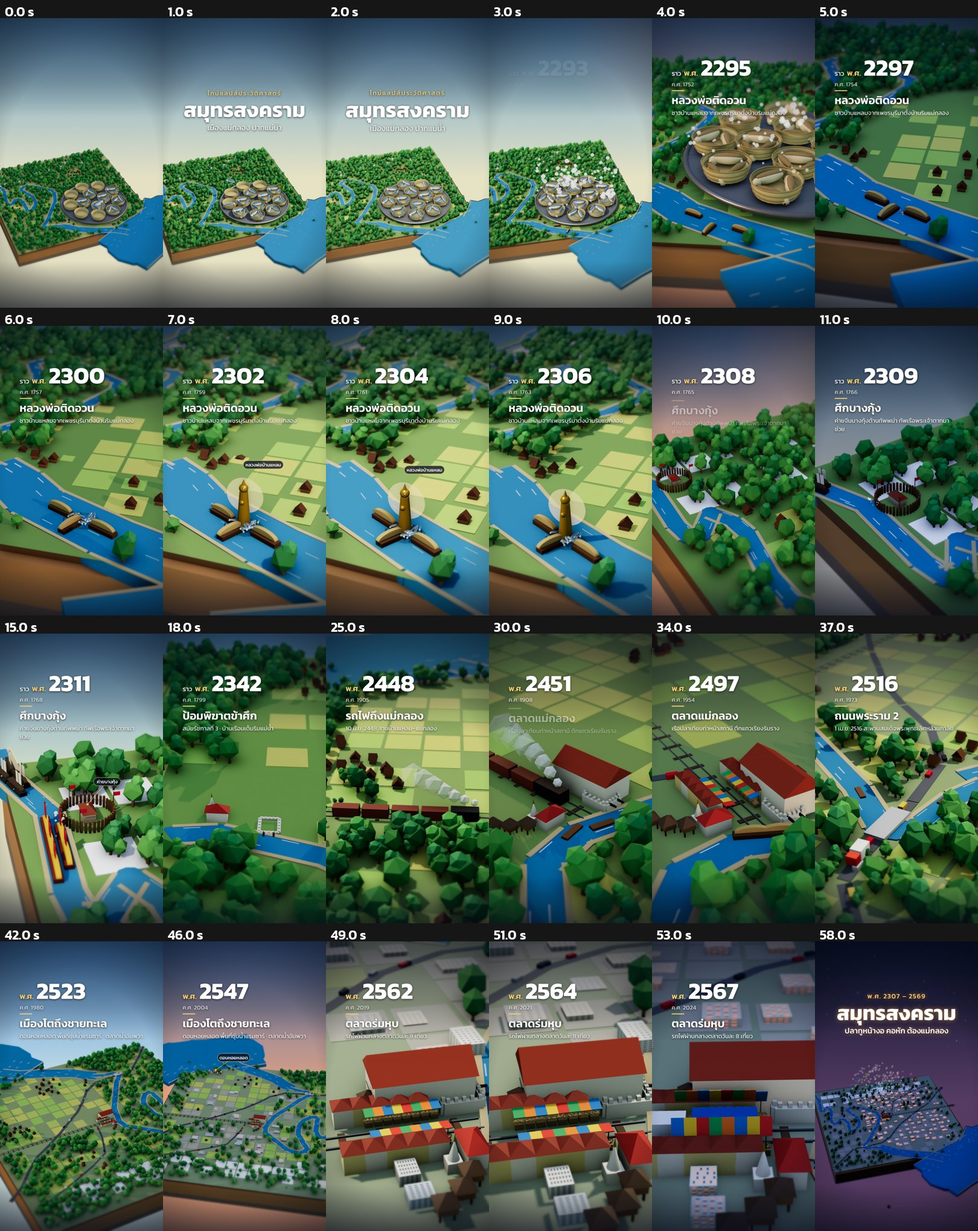
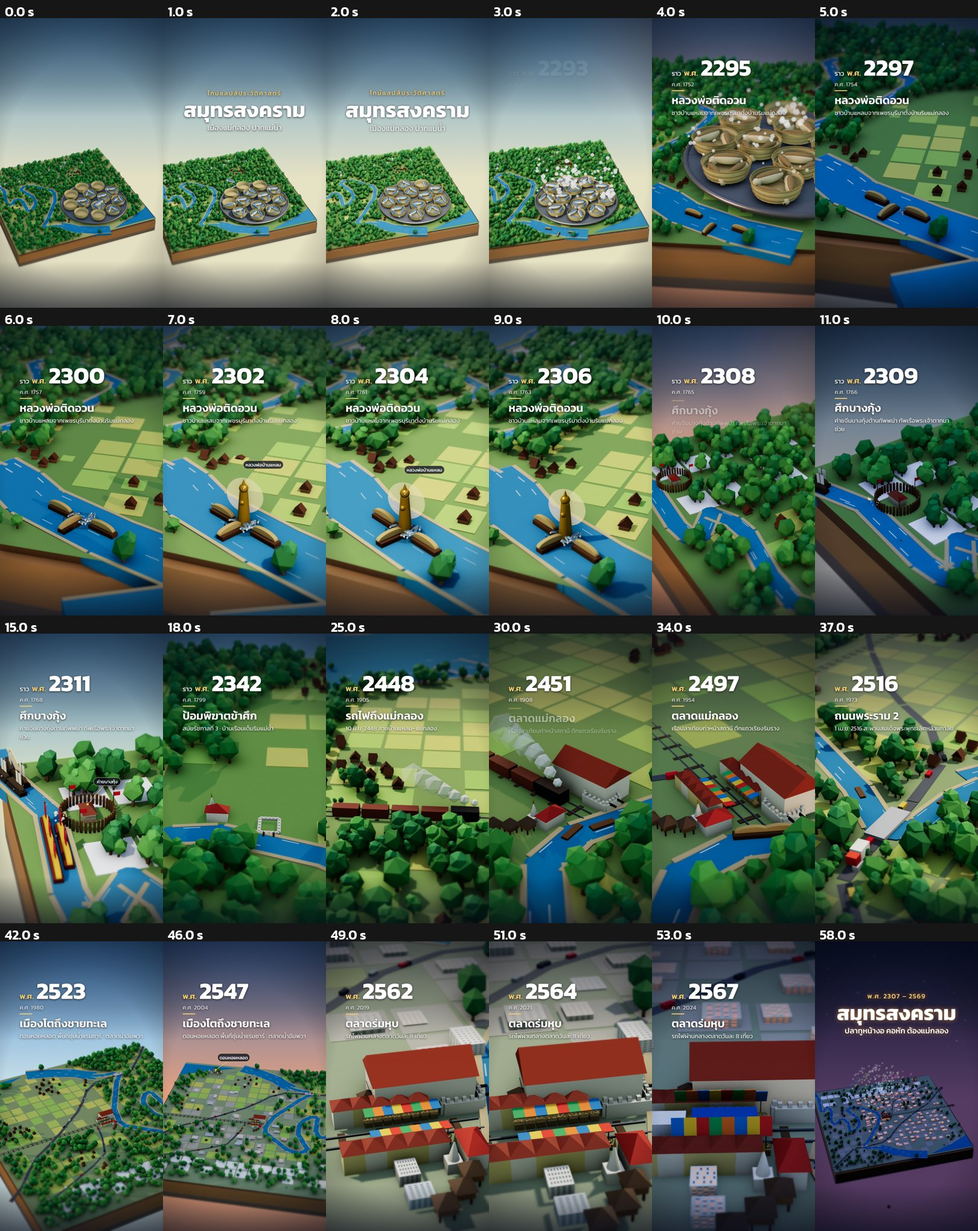
Samut Songkhram v1b: the gulf cut at the tile's edges, no water hanging off the tile

diff --git a/src/cities/samutsongkhram/places.ts b/src/cities/samutsongkhram/places.ts
@@ -12,7 +12,8 @@ export const TILE = {x0: -40, x1: 36, z0: -30, z1: 44};
 // ---- the Mae Klong (OSM way 1460457504): in from the north-west past Bang Kung, the loop west of town, down the town's
 // west side, out past the Rama II bridge to the mouth
 export const MAEKLONG: P[] = [
-  [-39.9, -33.9], [-39.6, -28.7], [-37.3, -22.2], [-37.9, -13.1], [-37.6, -10.7], [-36.3, -10.4], [-33.7, -13.4],
+  // enters at the tile's north edge (drawn 1.2 E so the 2.2-wide channel stays on the tile)
+  [-38.5, -30.0], [-38.4, -28.7], [-37.3, -22.2], [-37.9, -13.1], [-37.6, -10.7], [-36.3, -10.4], [-33.7, -13.4],
   [-32.4, -10.8], [-32.2, -8.4], [-33.6, -1.8], [-33.7, 2.2], [-32.6, 4.0], [-31.0, 3.8], [-28.8, 1.1], [-27.1, 1.1],
   [-26.0, 2.3], [-25.2, 4.5], [-25.2, 12.3], [-24.4, 13.2], [-22.6, 12.9], [-20.2, 10.4], [-19.1, 8.3], [-18.7, 6.0],
   [-18.9, 1.3], [-22.8, -6.5], [-22.1, -8.1], [-20.5, -9.3], [-18.0, -9.1], [-15.6, -8.1], [-6.7, 0.1], [-6.2, 3.3],
@@ -20,12 +21,14 @@ export const MAEKLONG: P[] = [
 ];
 export const MAEKLONG_W = 2.2;
 /** the estuary: from below the Rama II bridge, widening out to the gulf */
-export const ESTUARY: P[] = [[-13.0, 32.0], [-9.4, 34.4], [-6.0, 37.6], [2.0, 41.6], [12.6, 45.8], [18, 50]];
+/** ends at the tile's south edge, beside the gulf's corner (the engine draws a path river as boxes, unclipped) */
+export const ESTUARY: P[] = [[-13.0, 32.0], [-9.4, 34.4], [-6.0, 37.6], [2.0, 41.6], [10.0, 44.0]];
 export const ESTUARY_W = 6.0;
 /** the coast (OSM coastline, way 746400327), Don Hoi Lot's flats on it; the gulf is one wide path south-east of it */
 export const COAST: P[] = [[0, 50.6], [10, 45.4], [21.0, 40.6], [25.3, 39.4], [30.1, 36.8], [34.5, 34.9], [39.1, 29.4], [44, 22]];
-export const SEA_W = 30;
-export const SEA_PATH: P[] = COAST.map(([x, z]) => [x + 7.5, z + 13] as P);
+/** the Gulf of Thailand on the tile: the corner south-east of the coast, cut at the tile's edges (drawn in Landmarks.tsx
+ *  as one flat shape, so no water hangs off the tile) */
+export const SEA: P[] = [[12.6, 44], [21.0, 40.6], [25.3, 39.4], [30.1, 36.8], [34.5, 34.9], [36, 33.1], [36, 44]];
 
 // ---- the town (OSM pins)
 export const PILLAR: P = [0, 0]; // ศาลหลักเมือง (origin; built 2517)

diff --git a/src/cities/samutsongkhram/Landmarks.tsx b/src/cities/samutsongkhram/Landmarks.tsx
@@ -8,7 +8,7 @@ import {
   STEAM0, THAI, TRAY_R, TRUCKS, awningOpen, basketAt, buddhaK, burmeseAt, catchBoatAt, clamp01, diggerAt, diggersK, fortK,
   gunK, marketBoatAt, netK, packAt, riverHouseK, shopK, smooth, stallK, thaiAt, trayK, truckAt, watK,
 } from './actors';
-import {BANG_KUNG, FORT, NET_AT, RAIL_Z, TRAY_AT, TRAY_S, WAT_PHET} from './places';
+import {BANG_KUNG, FORT, NET_AT, RAIL_Z, SEA, TRAY_AT, TRAY_S, WAT_PHET} from './places';
 
 const hash = (i: number) => {
   const s = Math.sin(i * 127.1 + 311.7) * 43758.5453;
@@ -431,8 +431,27 @@ const Diggers: React.FC<{t: number; Y: number}> = ({t, Y}) => {
   );
 };
 
+// ------------------------------------------------------------------ the gulf: one flat shape cut at the tile's edges
+const seaShape = (() => {
+  const sh = new THREE.Shape();
+  // the shape is drawn in x / -z (rotated flat below), so z is negated
+  SEA.forEach(([x, z], i) => (i === 0 ? sh.moveTo(x, -z) : sh.lineTo(x, -z)));
+  sh.closePath();
+  return sh;
+})();
+const Gulf: React.FC = () => (
+  <group>
+    {/* extruded upward from y = -1.3 to the rivers' surface at 0.1 */}
+    <mesh position={[0, -1.3, 0]} rotation-x={-Math.PI / 2} receiveShadow>
+      <extrudeGeometry args={[seaShape, {depth: 1.4, bevelEnabled: false}]} />
+      <meshStandardMaterial color="#3f8fc0" roughness={0.12} metalness={0.25} />
+    </mesh>
+  </group>
+);
+
 export const SamutSongkhramLandmarks: React.FC<LandmarkProps> = ({Y, t}) => (
   <group>
+    <Gulf />
     <Tray t={t} />
     <Catch t={t} />
     <Camp t={t} />

diff --git a/src/cities/samutsongkhram/index.ts b/src/cities/samutsongkhram/index.ts
@@ -4,7 +4,7 @@ import {SamutSongkhramLandmarks} from './Landmarks';
 import {ACTORS, CAMP_R, RAIL_SPAN, RIVER_HOUSES, SHOPS, STALLS, TRAY_R, atAlong} from './actors';
 import {
   BANG_KUNG, DON_HOI_LOT, ESTUARY, ESTUARY_W, FORT, HALL, MAEKLONG, MAEKLONG_W, NE_ROAD, OLD_TOWN, PILLAR, RAIL_Z,
-  RAMA2, RAMA2_BRIDGE, SEA_PATH, SEA_W, TILE, TRAY_AT, WAT_PHET,
+  RAMA2, RAMA2_BRIDGE, SEA, TILE, TRAY_AT, WAT_PHET,
 } from './places';
 import {STORY, TRAINS} from './timeline';
 
@@ -36,8 +36,6 @@ export const SAMUTSONGKHRAM: CityConfig = {
     rivers: [
       {path: MAEKLONG, width: MAEKLONG_W},
       {path: ESTUARY, width: ESTUARY_W},
-      // the Gulf of Thailand: one wide path whose north-west edge is the coast
-      {path: SEA_PATH, width: SEA_W},
     ],
     bridges: [
       // สะพานสมเด็จพระพุทธเลิศหล้านภาลัย, opened with Rama II road on 1 Apr 2516
@@ -80,6 +78,8 @@ export const SAMUTSONGKHRAM: CityConfig = {
       [TRAY_AT[0], TRAY_AT[1], TRAY_R + 1.5, -1e9],
       // the estuary bank where the boats land the catch
       [-2, 34.6, 3, -1e9],
+      // the gulf (drawn in Landmarks.tsx): no trees on it
+      ...[[20, 43], [24, 42], [28, 41], [32, 39], [35, 37], [28, 43.5], [33, 42], [35, 34.5], [16, 43.8]].map(([x, z]) => [x, z, 3.2, -1e9] as [number, number, number, number]),
       // the camp at Bang Kung
       [BANG_KUNG[0], BANG_KUNG[1], CAMP_R + 1.2, -1e9],
       // the town's bank cleared with Ban Laem's settling

diff --git a/docs/briefs/samutsongkhram.md b/docs/briefs/samutsongkhram.md
@@ -70,3 +70,7 @@ effects, ambience -9.9 LU under the score. `npm run check`: 0 errors. Stills: `s
   now); the net's boats sat on the bank (the estuary is 600 m wide, boats along the channel); the train came in off frame
   at 24 s; trucks were drawn too big; white blocks stood in the old market (no towers, the sprawl kept low).
 - Left as it is: the grandeur warning (the old town is 0.9% of the tile) is the town's true size.
+- v1b (owner, 12 Nov: "the square tile shouldn't have water stuck on its side"): the gulf was a 30-wide path river, which
+  the engine draws as unclipped boxes, so it hung off the tile's south-east edge (the estuary and the river's north end
+  too). The gulf is now one flat shape cut at the tile's edges (`SEA`, Landmarks.tsx), cleared of trees; the estuary ends
+  at the south edge beside it and the river enters exactly at the north edge.
